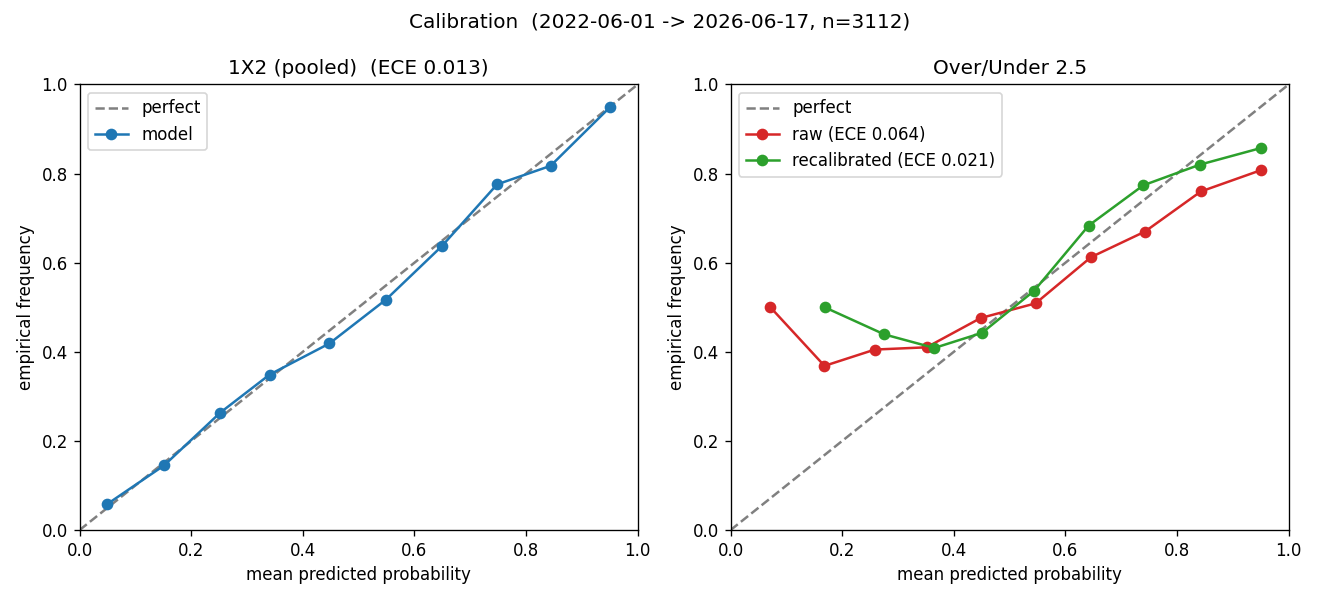
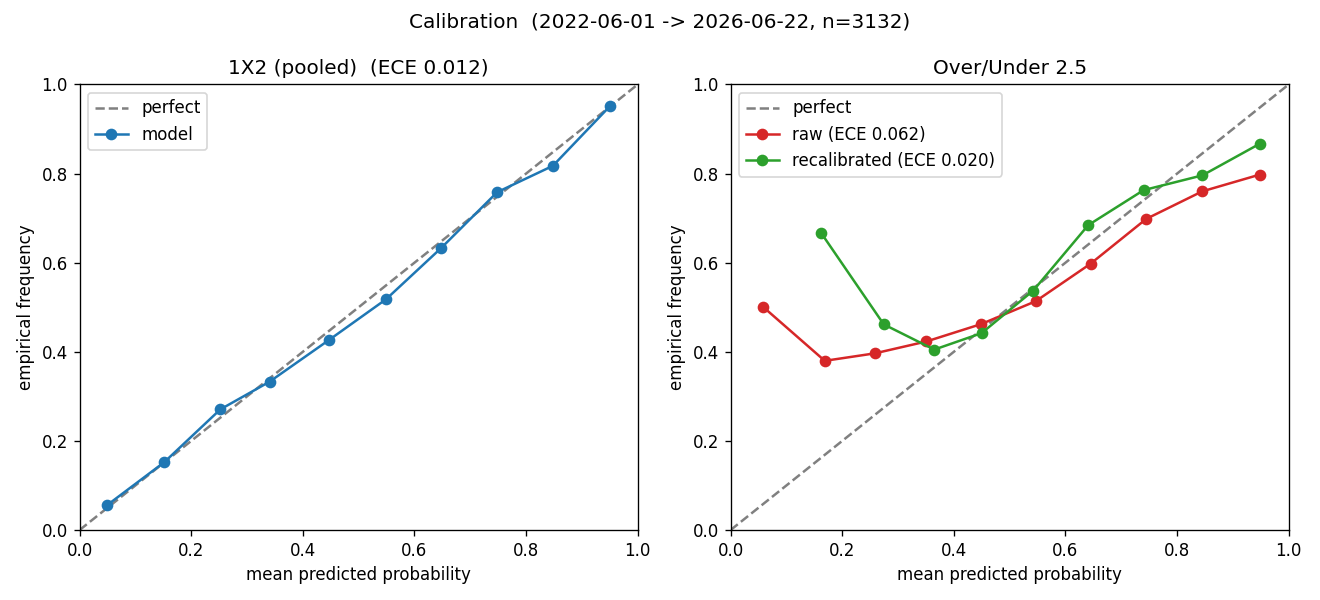
testing more

diff --git a/src/predict.py b/src/predict.py
@@ -233,7 +233,7 @@ def day_cmd(args) -> None:
             continue
 
         o = markets.outcome_probs(mat)
-        ou = markets.over_under(mat, 2.5)
+        over25 = m.over_prob(h, a, neutral=neutral, line=2.5, calibrated=True)  # Platt-calibrated
         b = markets.btts(mat)
         score, _ = markets.correct_score(mat, 1)[0]
         names = {"home": f"{h} win", "draw": "Draw", "away": f"{a} win"}
@@ -248,7 +248,7 @@ def day_cmd(args) -> None:
         print(f"  1X2 (context)  {h} {_pct(o['home'])} (fair {markets.fair_odds(o['home'])})"
               f"   Draw {_pct(o['draw'])} (fair {markets.fair_odds(o['draw'])})"
               f"   {a} {_pct(o['away'])} (fair {markets.fair_odds(o['away'])})")
-        print(f"  O/U 2.5           over {_pct(ou['over_2.5'])}   under {_pct(ou['under_2.5'])}")
+        print(f"  O/U 2.5           over {_pct(over25)}   under {_pct(1 - over25)}")
         print(f"  BTTS              yes {_pct(b['btts_yes'])}   no {_pct(b['btts_no'])}")
         print(f"  most likely       {names[best]} ({_pct(o[best])})")
 